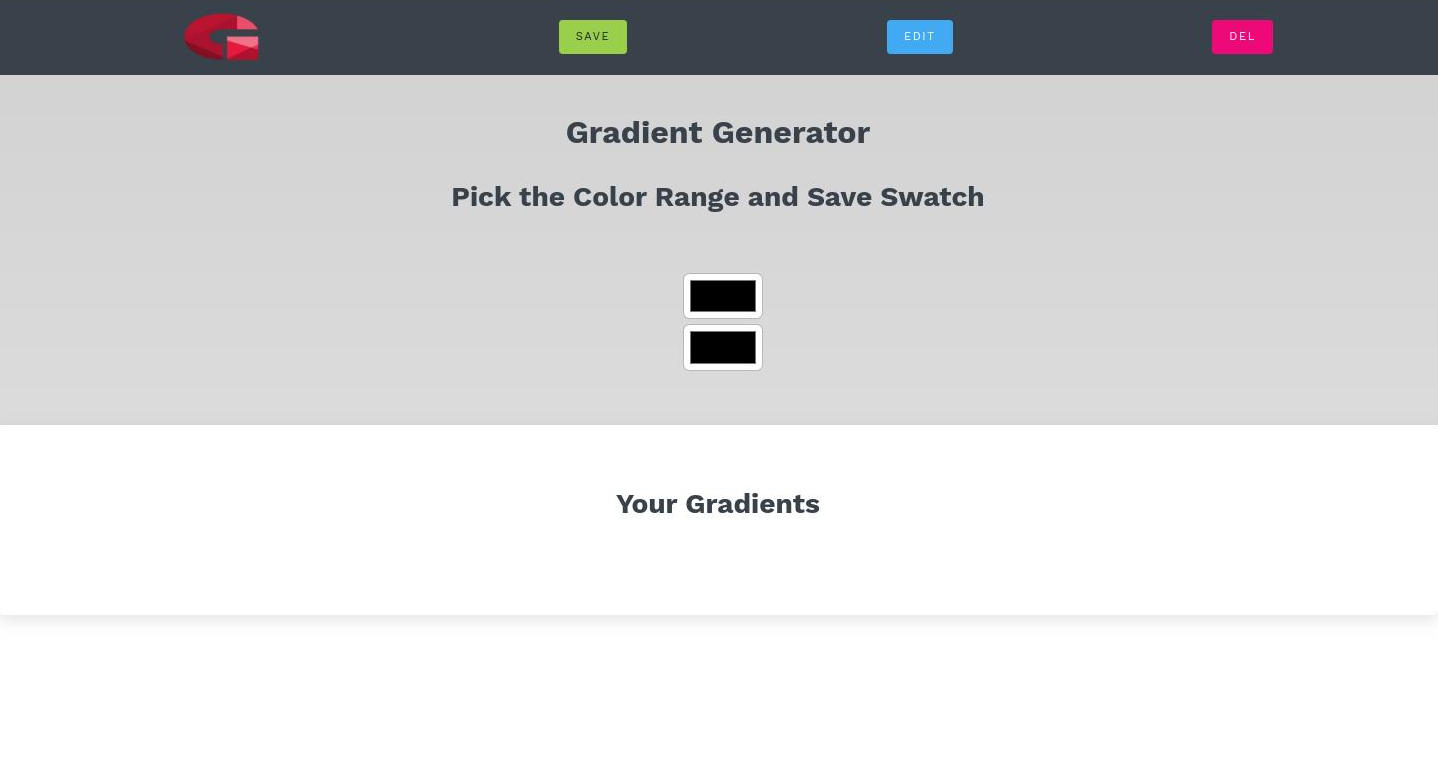
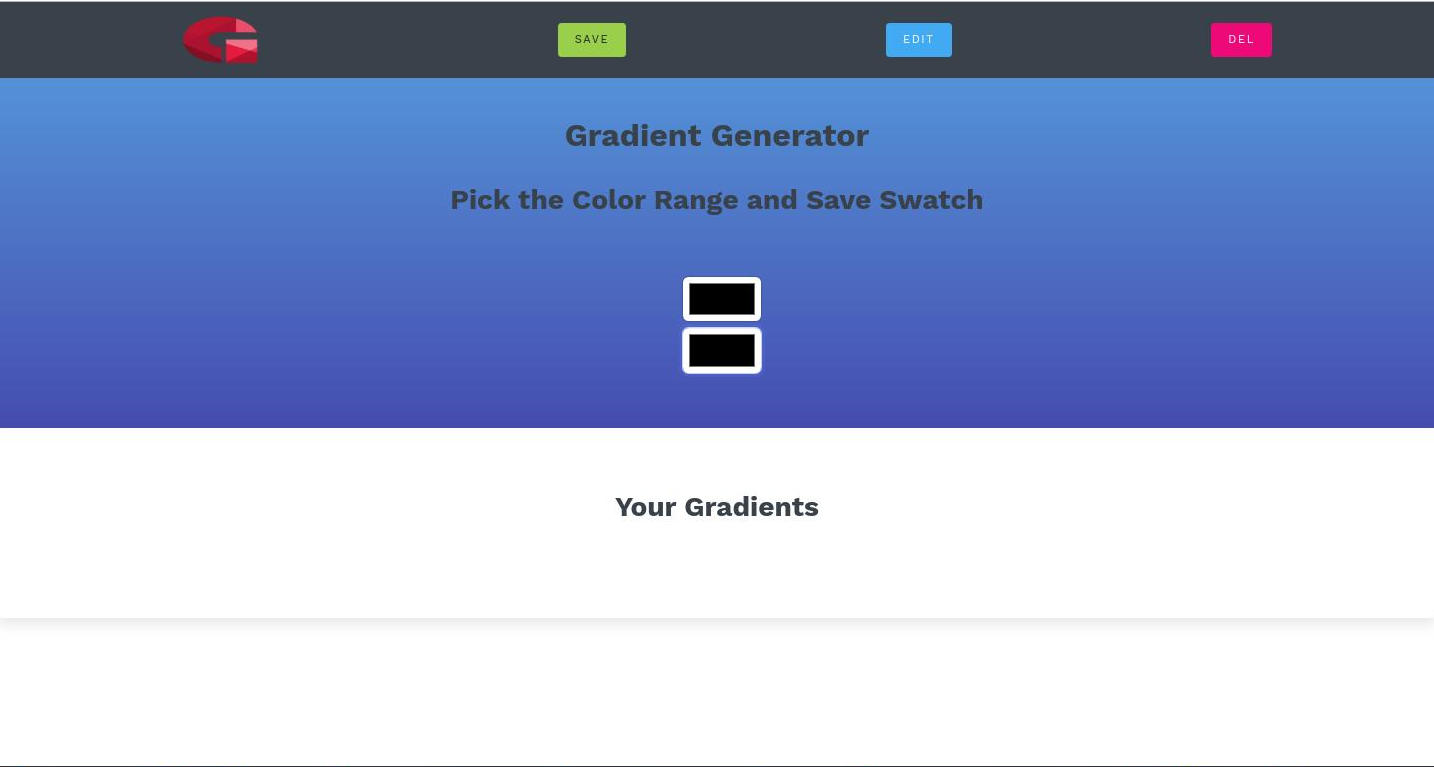
update

diff --git a/src/App.vue b/src/App.vue
@@ -9,8 +9,8 @@
     <br />
     <br />
     <div class="mx-auto" style="width: 80px;">
-     <b-form-input  v-model="value" type="color" @input="setbgColor" size="lg" id="colorone" ></b-form-input>
-     <b-form-input  v-model="value" type="color" @input="setbgColor" size="lg" id="colortwo" ></b-form-input>
+     <b-form-input  v-model="value1" type="color" @input="setbgColor" size="lg" id="colorone" ></b-form-input>
+     <b-form-input  v-model="value2" type="color" @input="setbgColor" size="lg" id="colortwo" ></b-form-input>
     </div>
     <br /><br />
     <div id="showvalue"></div>
@@ -28,33 +28,51 @@
 <script>
 import Header from '@/components/Header'
 export default {
-  props: {
+props: {
+   value1: String,
+   value2: String
   },
-  data () {
-    return {
-      //value: ""
-    }
-  },
-  created () {
-  },
-  methods: {
-    setbgColor(e) {
-      if(e.input == true) {
-        console.log(this.value);
-      }
-    /*Listens & Sets the BG Gradient from inputs in setbgColor function
-    const colorone = document.getElementById('colorone');
-    const colortwo = document.getElementById('colortwo');
-    const gradient = document.getElementById('bodybg');
-    const showdata = document.getElementById('showvalue');
-    gradient.style.background = `linear-gradient(to right, ${colorone.value}, ${colortwo.value})`;
-    showdata.style.display = "none";*/
-}
-},
   components: {
   Header
+  },
+    data () {
+    return {
+      localValue1: "#rrggbb",
+      localValue2: "#rrggbb"
+    }
+  },
+  computed: {
+      changeData() {
+         const { localValue1, localValue2 } = this
+         return {
+           localValue1,
+           localValue2
+         }
+      }
+  },
+  watch: {
+  changeData: {
+    handler: function(val) {
+      console.log('value change: ', val)
+    },
+    deep: true
   }
+},
+  methods: {
+      setbgColor() {}
+   }
+
 }
+
+
+
+
+
+
+
+
+
+
 </script>
 <style>
 * {
@@ -97,7 +115,7 @@ footer {
 #bodybg {
 padding-top: 40px;
 height: 350px;
-background: linear-gradient(lightgrey, gainsboro);
+background: linear-gradient(rgb(85, 146, 216), rgb(70, 77, 175));
 }
 input#colorone,
 input#colortwo {
